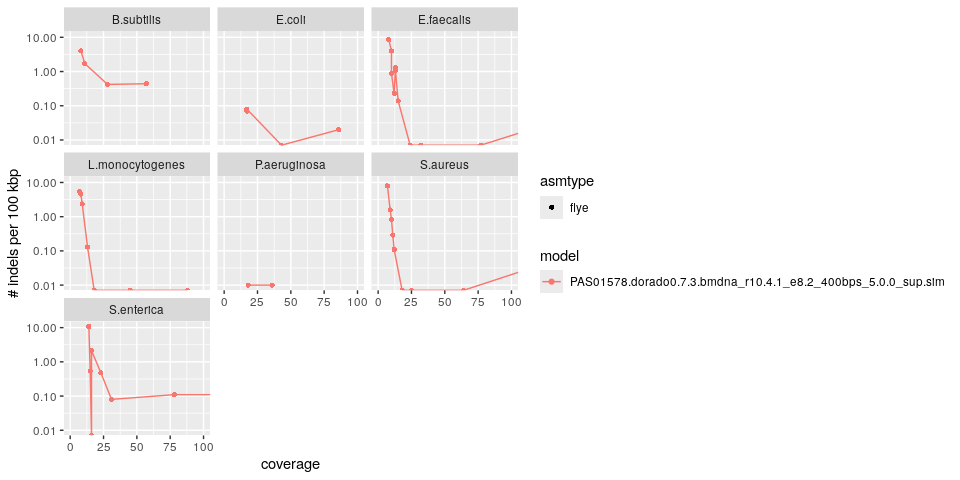
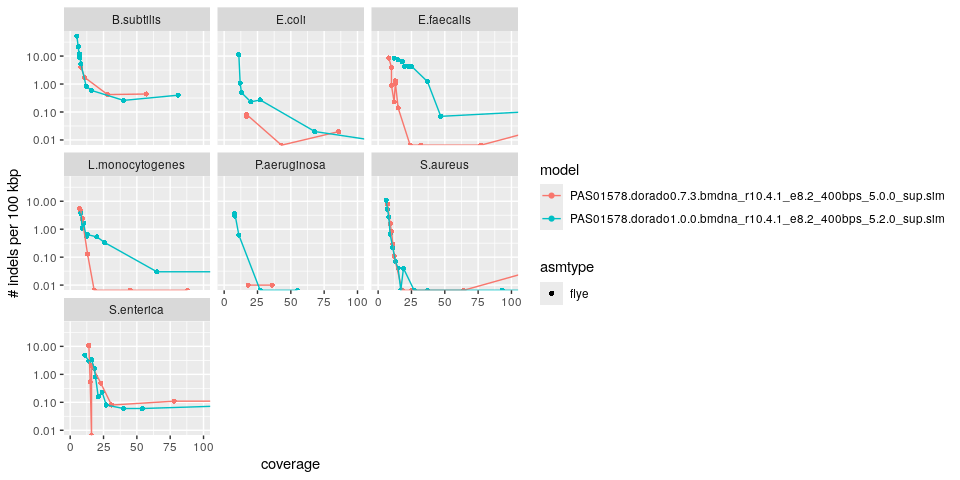
added 5.2.0 model data as well as 5.0.0 hyper model

diff --git a/analysis/zymohmw/README.md b/analysis/zymohmw/README.md
@@ -1,7 +1,7 @@
 README
 ================
 Rasmus Kirkegaard
-07 October, 2024
+16 June, 2025
 
 # R10.4.1 Zymo HMW basecalling
 
@@ -12,7 +12,9 @@ To check the quality of nanopore data with the ZymoHMW mock DNA.
 ## Conclusion
 
 There are some serious improvements in raw read accuracy between the
-fast, hac and sup models.
+fast, hac sup, and now hyp models. However, for some reason the improved
+raw read accuracy of the hyp(er) accuracy model does not improve
+assemblies consistently for all of the organisms.
 
 ## Data availability
 
@@ -27,19 +29,6 @@ fast, hac and sup models.
 ![](README_files/figure-gfm/unnamed-chunk-2-1.png)<!-- -->
 
 ## NP reads mapped to the refs overall (phred scale)
-
-Phred scores for perfect matching reads are calculated as recommended by
-[Armin
-Topfer](https://twitter.com/kirk3gaard/status/1397457000217423873) which
-takes length into account by adjusting the percent identity value
-100\*(1-1/(length+1)). This implies that a perfect read of 100 bp will
-achieve a phred score of ~20, while 1000 bp caps out at ~30 etc. So
-forget about your short reads being Q40.
-
-![](README_files/figure-gfm/unnamed-chunk-3-1.png)<!-- -->
-
-As the phred score calculation above somewhat hides the fraction of
-perfect reads here they come as such.
 
 ![](README_files/figure-gfm/unnamed-chunk-4-1.png)<!-- -->
 
@@ -93,6 +82,16 @@ perfect reads here they come as such.
 
 ![](README_files/figure-gfm/unnamed-chunk-14-1.png)<!-- -->
 
+## hyp mode vs sup
+
+### Indel rate vs coverage
+
+![](README_files/figure-gfm/unnamed-chunk-15-1.png)<!-- -->
+
+### Mismatch rate vs coverage
+
+![](README_files/figure-gfm/unnamed-chunk-16-1.png)<!-- -->
+
 ## Materials and methods
 
 Here is a brief description of the tools used. For the exact commands
@@ -114,7 +113,10 @@ sampling).
 
 The reads were basecalled using
 [dorado](https://github.com/nanoporetech/dorado) (v. 0.7.3) with fast,
-hac and sup accuracy mode using the 5.0.0 models.
+hac and sup accuracy mode using the 5.0.0 models.The reads were
+basecalled using [dorado](https://github.com/nanoporetech/dorado) (v.
+1.0.0) with fast, hac and sup accuracy mode using the 5.2.0 models and
+hyp model 5.0.0.
 
 ### Read QC
 
